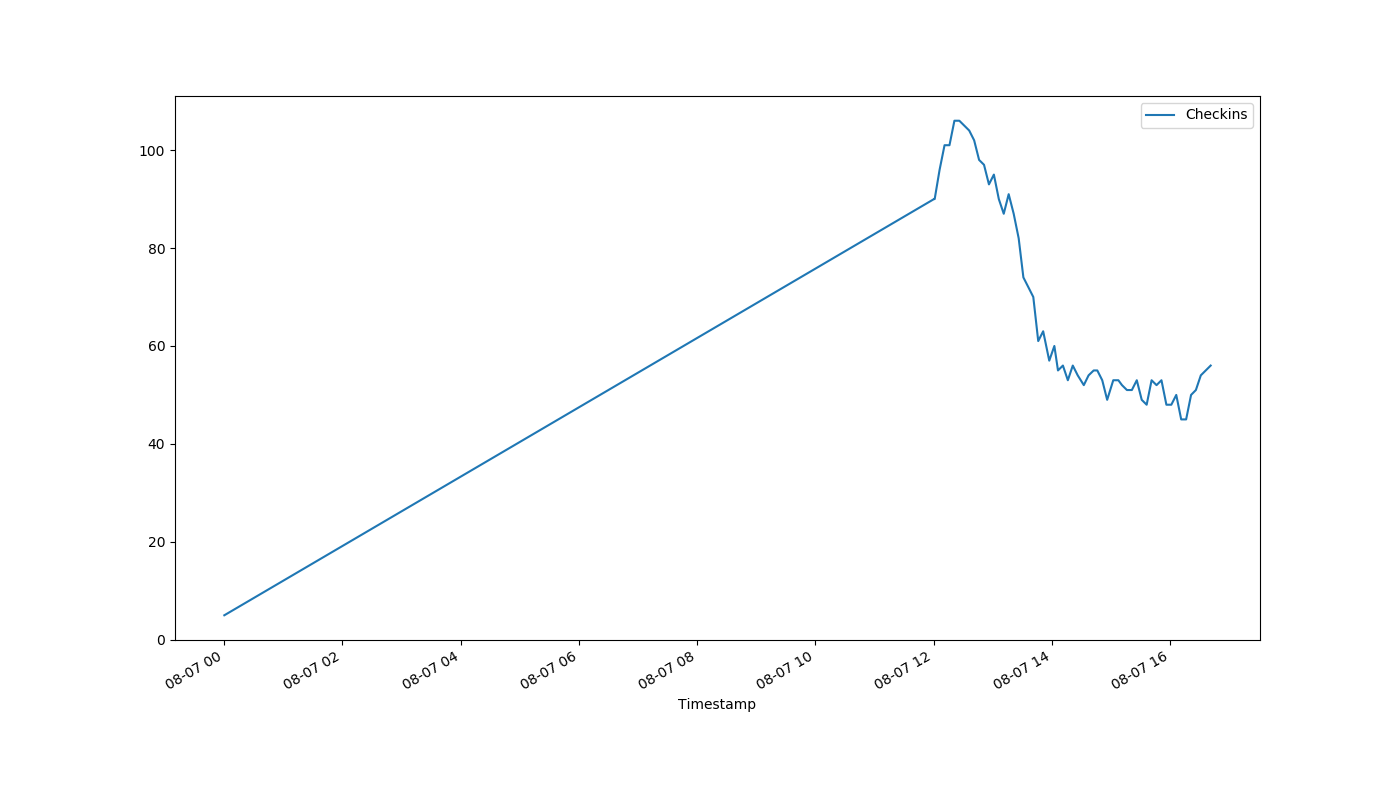
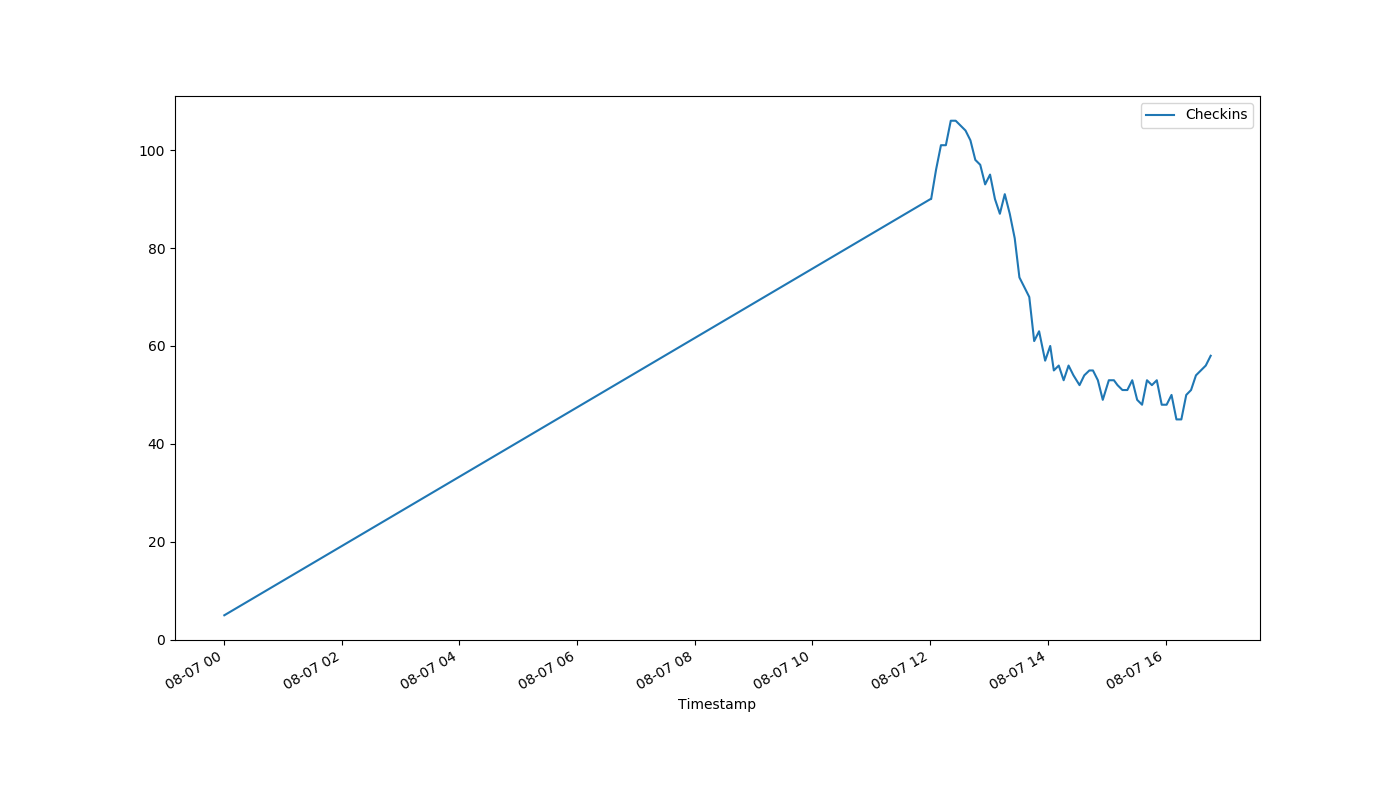
auto-Aug-07-16:48:44

diff --git a/index.html b/index.html
@@ -1,1 +1,1 @@
-<!DOCTYPE html><html><head><meta http-equiv="refresh" content="30"><link rel='stylesheet' href='holmcurrent.css'></head><body><p id='count'>56</p><div id='graph-wrap'><img id='graph' src='holmgraph-Aug-07.png'></div><p id='updated'>Last updated 16:42:00 / 16:41:03</p></body></html>
+<!DOCTYPE html><html><head><meta http-equiv="refresh" content="30"><link rel='stylesheet' href='holmcurrent.css'></head><body><p id='count'>58</p><div id='graph-wrap'><img id='graph' src='holmgraph-Aug-07.png'></div><p id='updated'>Last updated 16:47:00 / 16:46:04</p></body></html>
